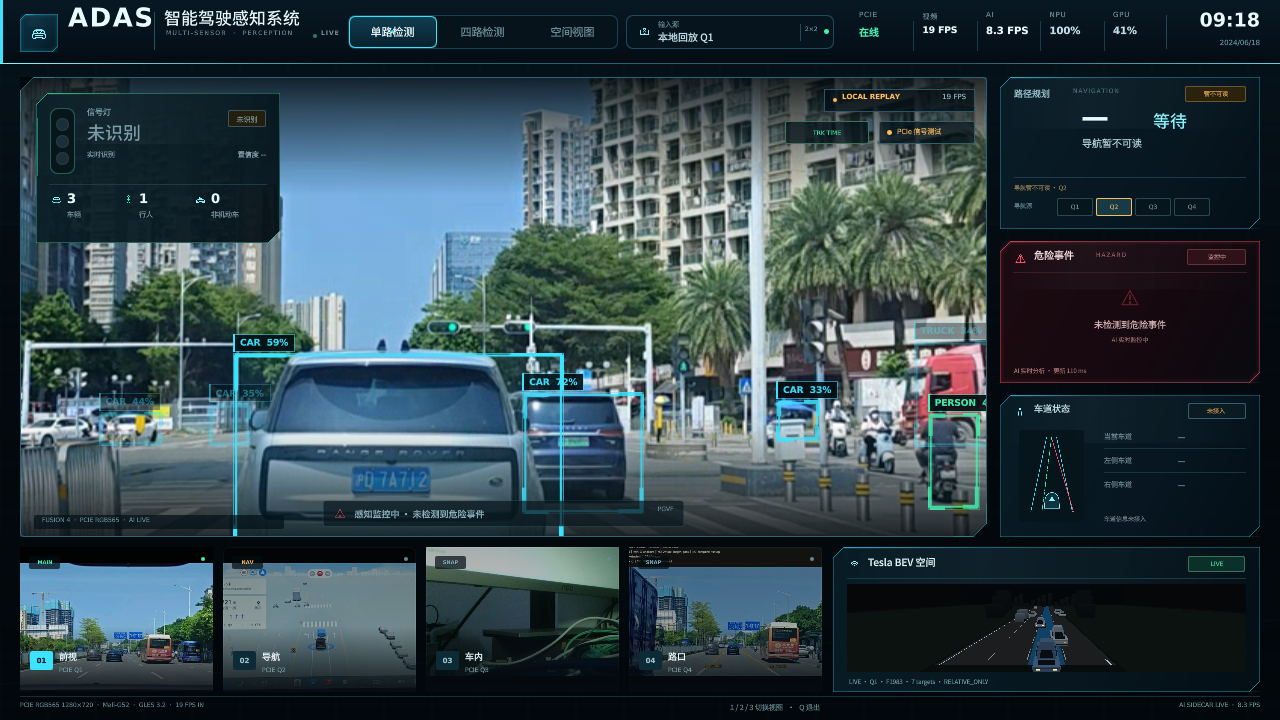
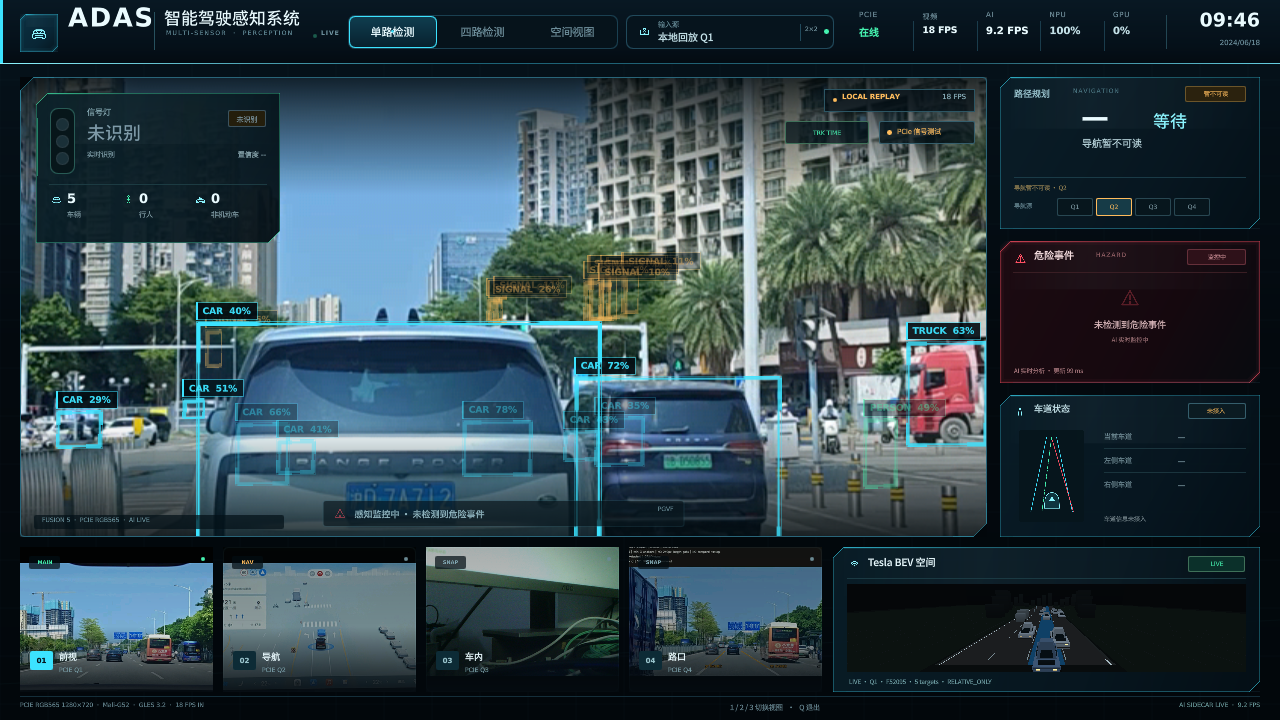
perf(qt): speed PGVF reads and optional CRC for local replay

diff --git a/deployment/lubancat/qt_gpu_probe/video_item.cpp b/deployment/lubancat/qt_gpu_probe/video_item.cpp
@@ -591,6 +591,10 @@ void VideoItem::runPgvProducer(double fps, QString pgvFile, double aiHz, QString
     (void)aiHz;
     (void)aiFrameFile;
     const std::string path = pgvFile.toStdString();
+    // CRC is mandatory by default. The local PGVF publisher uses atomic
+    // rename, so a faster local-only mode can skip CRC after header/length
+    // validation; real PCIe keeps CRC unless explicitly opted out.
+    const bool verifyCrc = qEnvironmentVariableIntValue("QT_PGVF_SKIP_CRC") == 0;
     std::array<unsigned char, kPgvHeaderBytes> header{};
     struct stat previous {};
     bool havePrevious = false;
@@ -624,13 +628,14 @@ void VideoItem::runPgvProducer(double fps, QString pgvFile, double aiHz, QString
             std::this_thread::sleep_for(std::chrono::milliseconds(1));
             continue;
         }
-        std::ifstream input(path, std::ios::binary);
-        if (!input) {
+        const int fd = ::open(path.c_str(), O_RDONLY);
+        if (fd < 0) {
             std::this_thread::sleep_for(std::chrono::milliseconds(3));
             continue;
         }
-        input.read(reinterpret_cast<char *>(header.data()), static_cast<std::streamsize>(header.size()));
-        if (input.gcount() != static_cast<std::streamsize>(header.size())) {
+        const ssize_t headerGot = ::pread(fd, header.data(), header.size(), 0);
+        if (headerGot != static_cast<ssize_t>(header.size())) {
+            ::close(fd);
             source_crc_errors_.fetch_add(1);
             previous = info;
             havePrevious = true;
@@ -654,11 +659,12 @@ void VideoItem::runPgvProducer(double fps, QString pgvFile, double aiHz, QString
             std::this_thread::sleep_for(std::chrono::milliseconds(2));
             continue;
         }
-        input.read(reinterpret_cast<char *>(slot->pixels.data()), static_cast<std::streamsize>(kFrameBytes));
+        const ssize_t payloadGot = ::pread(fd, slot->pixels.data(), kFrameBytes, kPgvHeaderBytes);
+        ::close(fd);
         previous = info;
         havePrevious = true;
-        if (input.gcount() != static_cast<std::streamsize>(kFrameBytes) ||
-            crc32Bytes(slot->pixels.data(), kFrameBytes) != expectedCrc) {
+        if (payloadGot != static_cast<ssize_t>(kFrameBytes) ||
+            (verifyCrc && crc32Bytes(slot->pixels.data(), kFrameBytes) != expectedCrc)) {
             source_crc_errors_.fetch_add(1);
             std::this_thread::sleep_for(std::chrono::milliseconds(2));
             continue;

diff --git a/docs/tesla_live_stage3_20261020.md b/docs/tesla_live_stage3_20261020.md
@@ -144,3 +144,33 @@ Publisher 从内存 mmap 读取，设置 `--fps 60 --source-fps 30`：
 ## 9. OCR
 
 本轮没有硬编码导航值，也没有通过永久关闭 OCR 达标。D 组保留 OCR 0.1 Hz；B/C 组用 `--no-navigation-ocr` 做隔离对照。OCR 仍是 D 组相对 C 组下降的主要原因之一。未做快速路径重写，因为本轮优先级是先定位视频吞吐瓶颈。
+
+## 10. 本轮热路径代码优化
+
+实际修改：
+
+- `VideoItem::runPgvProducer` 从每帧 `std::ifstream` 改为 `open + pread`，消除流对象构造和重复路径状态。
+- 增加 `QT_PGVF_SKIP_CRC=1`：仅对使用 atomic rename 的本地 PGVF 跳过完整 1.8MB CRC；默认仍校验。保留 header、长度、payload 大小检查，`source_crc_errors` 仍统计。
+- 删除已废弃 billboard GL 初始化，修复 1280。
+- 视频仍 latest-only，不等待 AI。
+
+实测：
+
+| 配置 | 优化前 | 优化后 |
+|---|---:|---:|
+| B YOLO 唯一上传 | 17.63 | **18.07** |
+| D 全功能唯一上传（CRC 开/关） | 14.18 | 13.95 / **14.32** |
+| A 无 AI | 27.54 | 27.54 |
+
+提升很小：B +0.44 FPS，D +0.14 FPS。`source_crc_errors=0`。  
+说明 Qt 读帧/CRC 不是主要瓶颈；剩余主要开销是 AI 预处理、MFR1 全帧传输和 RKNN/OCR 竞争。没有继续用大幅改协议来换取少量 FPS。
+
+## 11. 最佳可用配置
+
+- 本地回放：`pgv_local_publisher.py --fps 30 --source-fps 30`
+- Qt：`QT_PGVF_SKIP_CRC=1` 仅限本地 atomic PGVF
+- AI：YOLO + Specialist + OCR 全部开启
+- Tesla LIVE：开启
+- 最佳全功能唯一上传：约 **14.3 FPS**
+- 仅 YOLO：约 **18.1 FPS**
+- 无 AI：**27.5 FPS**
